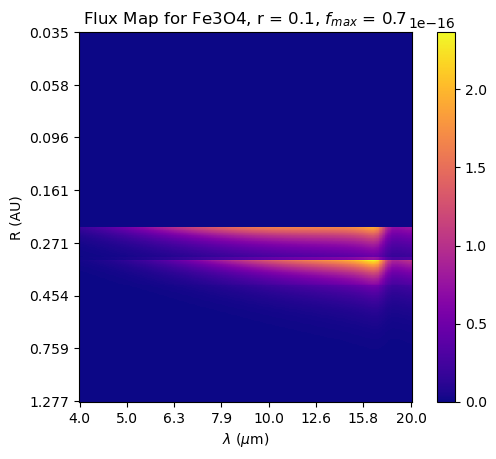
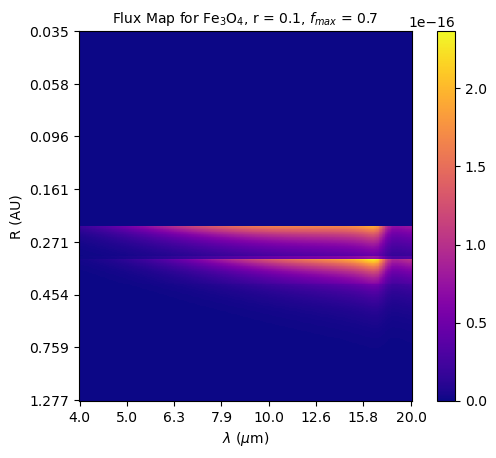
plotted combined flux map and all spectra

diff --git a/Jorge_2022/opacities.py b/Jorge_2022/opacities.py
@@ -2,9 +2,11 @@ import numpy as np
 import matplotlib.pyplot as plt
 import pandas as pd
 from molmass import Formula
+from pyvalem.formula import Formula
 from jorge_diskprop import inner_radius, r_from_T
 from top5_minerals import final_abundances, most_abundant, topabunds_by_radii
 from scipy.interpolate import UnivariateSpline
+plt.rcParams['axes.titlesize'] = 10
 
 
 # Some constants in CGS
@@ -16,6 +18,20 @@ bar = 1.E+6                      # 1 bar in dyn/cm^2
 
 
 
+def latex_name(solid):
+	
+	"""
+	Creates latex friendly names of compounds for better plot formatting
+	"""
+	
+	f = Formula(solid)
+	fancy = "$" + f.latex + "$"
+	raw_solid = r"{}".format(fancy)
+	
+	return raw_solid
+      
+ 
+      
 def molecular_weight(solids):
     
     """
@@ -59,7 +75,7 @@ def surface_density(solids, molwt, top_abunds, nHtot):
 
 
 
-def Qcurve_plotter(opfile, dens, gs):
+def Qcurve_plotter(opfile, dens, gs, lmin, lmax, lsize):
 	
 	"""
 	Plots the Qcurve
@@ -83,22 +99,21 @@ def Qcurve_plotter(opfile, dens, gs):
 	Q = Q_curve['Q'].to_numpy()
 	
 	# Taking only the indices where the wavelength is between 4 to 16 microns
-	indices = np.where(np.logical_and(lamda >= 4.0, lamda <= 20.0))
+	indices = np.where(np.logical_and(lamda >= lmin, lamda <= lmax))
 	lamda = lamda[indices]
 	Q = Q[indices]
 	
 	# Ensuring that there are an equal number of wavelength i.e. 600 points across all solids
-	if len(lamda) > 450:
+	if len(lamda) > lsize:
 		
-		idx = np.round(np.linspace(0, len(lamda) - 1, 450)).astype(int) 
+		idx = np.round(np.linspace(0, len(lamda) - 1, lsize)).astype(int) 
 		lamda = lamda[idx]
 		Q = Q[idx]
 	
-	elif len(lamda) < 450:
+	elif len(lamda) < lsize:
 		
 		old_indices = np.arange(0,len(lamda))
-		new_length = 450
-		new_indices = np.linspace(0, len(lamda)-1, new_length)
+		new_indices = np.linspace(0, len(lamda)-1, lsize)
 		
 		spl1 = UnivariateSpline(old_indices, lamda, k=3, s=0)
 		lamda = spl1(new_indices)
@@ -111,7 +126,7 @@ def Qcurve_plotter(opfile, dens, gs):
 	plt.plot(lamda, kappa)
 	plt.xlabel(r'$\lambda$ ($\mu$m)')
 	plt.ylabel(r'$\kappa_{abs}$ ($cm^2/g$)')
-	plt.title(r"Q-curve for {0}, r = {1}, $f_{{max}}$ = {2}".format(mineral, rv, fmax))
+	plt.title(r"Q-curve for {0}, r = {1}, $f_{{max}}$ = {2}".format(latex_name(mineral), rv, fmax))
 	plt.savefig("Qcurves_trimmed/Qcurve_{0}_r{1}_f{2}.png".format(mineral, rv, fmax), bbox_inches = 'tight')
 	plt.show()
 	
@@ -183,7 +198,7 @@ def flux_map(solid_name, rv, fmax, tau, I, lamda, R_arr):
     ax.set_yticklabels(y_axis_labels)
     ax.set_ylabel('R (AU)')
 
-    ax.set_title(r"Flux Map for {0}, r = {1}, $f_{{max}}$ = {2}".format(solid_name, rv, fmax))
+    ax.set_title(r"Flux Map for {0}, r = {1}, $f_{{max}}$ = {2}".format(latex_name(solid_name), rv, fmax))
     fig.colorbar(img)
     plt.savefig("Flux_Maps_trimmed/{0}_fluxmap_r{1}_fmax{2}.png".format(solid_name, rv, fmax), bbox_inches = 'tight')
     plt.show()
@@ -202,7 +217,7 @@ def f(tau, I, r):
 
     
     
-def plot_spectra(tau, I, R_arr, lamda, Rmin, Rmax):
+def calculate_spectra(solid_name, rv, fmax, tau, I, R_arr, lamda, Rmin, Rmax):
 	
 	"""
 	Plots the integrated flux vs wavelength
@@ -214,32 +229,29 @@ def plot_spectra(tau, I, R_arr, lamda, Rmin, Rmax):
 	R_rounded = np.round(R_arr, 2)	
 	Rmin_id = np.where(R_rounded == Rmin)[0][0]
 	Rmax_id = np.where(R_rounded == Rmax)[0][0]
-	print(R_arr)
-	print()
-	print(R_rounded)
-	print(Rmin_id, Rmax_id)
-	print(R_rounded[Rmin_id], R_rounded[Rmax_id])
-	print(R_arr[Rmin_id], R_arr[Rmax_id])
 	
 	summ = 0
 	for r1 in range(Rmin_id, Rmax_id-1):
 		for r2 in range(r1+1, Rmax_id):
 	
-                    # Numerical integration using the trapezoidal rule
-                    delr = R_arr[r2] - R_arr[r1]
-                    fr1 = f(tau[r1, :], I[:, r1], R_arr[r1])
-                    fr2 = f(tau[r2, :], I[:, r2], R_arr[r2])
-                    summ += delr * 0.5 * (fr1 + fr2)
-	
+			# Numerical integration using the trapezoidal rule
+			delr = R_arr[r2] - R_arr[r1]
+			fr1 = f(tau[r1, :], I[:, r1], R_arr[r1])
+			fr2 = f(tau[r2, :], I[:, r2], R_arr[r2])
+			summ += delr * 0.5 * (fr1 + fr2)
+
+	return summ
+
+
+def plot_spectra(lamda, summ):
+		
 	fig = plt.figure()
 	plt.plot(lamda, summ)
 	plt.xlabel(r'$\lambda$ ($\mu$m)')
-	plt.ylabel('Flux of some kind')
-	plt.title(r'Spectrum $Mg_2SiO_4$ r=0.1 $\mu$m f=1.0 R={0}-{1} AU'.format(Rmin, Rmax))
-	plt.savefig("Spectrum_Forst_r0.1_f1.0_R{0}-{1}.png".format(Rmin, Rmax))
+	plt.ylabel('Flux')
+	plt.title(r'Spectrum {0} r={1} $\mu$m $f_{{max}}$={2} R={3}-{4} AU'.format(latex_name(solid_name), rv, fmax, Rmin, Rmax))
+	plt.savefig("Spectra/Spectrum_{0}_r{1}_f{2}_R{3}-{4}.png".format(solid_name, rv, fmax, Rmin, Rmax))
 	plt.show()
-	
-	return summ
     
 
 
@@ -278,6 +290,11 @@ def main():
 	R_arr = r_from_T(R_in, Tg, T0)
 	
 	top = 5                                 # Top X condensates whose abundance is the highest	
+	lmin = 4.0 								# Lower limit of wavelength (microns)
+	lmax = 20.0 							# Upper limit of wavelength (microns)
+	lsize = 450 							# Number of wavelength (and kappa) points 
+	Rmin = 0.03 							# Minimum radius for spectrum plotting (AU) ENSURE IT IS ONLY 2 DECIMAL PLACES LONG
+	Rmax = 1.28 							# Maximum radius for spectrum plotting (AU) ENSURE IT IS ONLY 2 DECIMAL PLACES LONG
 	gs = 0.1E-4                             # Grain radius (cm)
 	
 	# All 52 condensates for Sun from Fig C.1 Jorge et al. 2022:
@@ -302,33 +319,69 @@ def main():
 	fmaxs = {key: None for key in top5_solids}
 	
 	for opfile, density in opfile_dens.items():
-		mineral, rv, fmax, lamda, kappa = Qcurve_plotter(opfile, density, gs)
+		mineral, rv, fmax, lamda, kappa = Qcurve_plotter(opfile, density, gs, lmin, lmax, lsize)
 		lamdas[mineral] = lamda
 		kappas[mineral] = kappa
 		rvs[mineral] = rv
 		fmaxs[mineral] = fmax
 		
-	# Since some opacity files are missing at the moment, some lamda and kappa values are None
+	# Since some opacity files are missing at the moment, so some lamda and kappa values are None
 	
-	# Plotting the flux map
+	# Plotting the flux map and calculating the integrated flux for each solid
 	I = {key: None for key in top5_solids}
 	tau = {key: None for key in top5_solids}
+	F_map = np.zeros((NPOINT, lsize))
+	intflux_sum = np.zeros(lsize)
 	
 	for solid in top5_solids:
 		
 		try: 
+			
 			I[solid] = Plancks(T0, R_arr, R_in, lamdas[solid]) 
 			tau[solid] = tau_calc(surf_dens[solid], kappas[solid])
-			F_map = flux_map(solid, rvs[solid], fmaxs[solid], tau[solid], I[solid], lamdas[solid], R_arr)
+			F_map += flux_map(solid, rvs[solid], fmaxs[solid], tau[solid], I[solid], lamdas[solid], R_arr)
+			intflux_sum += calculate_spectra(solid, rvs[solid], fmaxs[solid], tau[solid], I[solid], R_arr, lamdas[solid], Rmin, Rmax)
+
 		except:
+			
 			TypeError
-		
 	
 	
-	# ~ # Finding the integrated flux
-	# ~ int_flux = plot_spectra(tau, I, R_arr, lamda, Rmin=0.03, Rmax=1.28)
+	# Plotting the overall flux map
+	fig, ax = plt.subplots(1,1)
+	img = ax.imshow(F_map, cmap='plasma', interpolation='none')
 	
-	# ~ # TODO: Plotting fluxes of multiple radii together
+	x_axis_locations = np.linspace(0, lsize-1, 8).astype(int)
+	ax.set_xticks(x_axis_locations)
+	x_axis_labels = np.round(lamda[x_axis_locations], 1)
+	ax.set_xticklabels(x_axis_labels)
+	ax.set_xlabel(r'$\lambda$ ($\mu$m)')
+	
+	y_axis_locations = np.linspace(0, len(R_arr)-1, 8).astype(int)
+	ax.set_yticks(y_axis_locations)
+	y_axis_labels = np.round(R_arr[y_axis_locations], 3)
+	ax.set_yticklabels(y_axis_labels)
+	ax.set_ylabel('R (AU)')
+	
+	ax.set_title(r"Overall Flux Map for r=0.1 microns")
+	fig.colorbar(img)
+	plt.savefig("Flux_Maps_trimmed/overall_fluxmap.png", bbox_inches = 'tight')
+	plt.show()
+
+	# Plotting the overall spectrum
+	fig = plt.figure()
+	lamda_array = np.linspace(lmin, lmax, lsize)
+	plt.plot(lamda_array, intflux_sum)
+	plt.xlabel(r'$\lambda$ ($\mu$m)')
+	plt.ylabel('Flux')
+	plt.title(r'Overall Spectrum r=0.1 $\mu$m R={0}-{1} AU'.format(Rmin, Rmax))
+	plt.savefig("Spectra/Overall_spectrum_r0.1_R{0}-{1}.png".format(Rmin, Rmax))
+	plt.show()
+	
+	# Plotting the overall spectrum considering multiple radii together
+	Rmax_list = [0.25, 0.5, 0.8, 1.0, 1.28]
+	
+	for 
 	
 
 if __name__ == "__main__":
